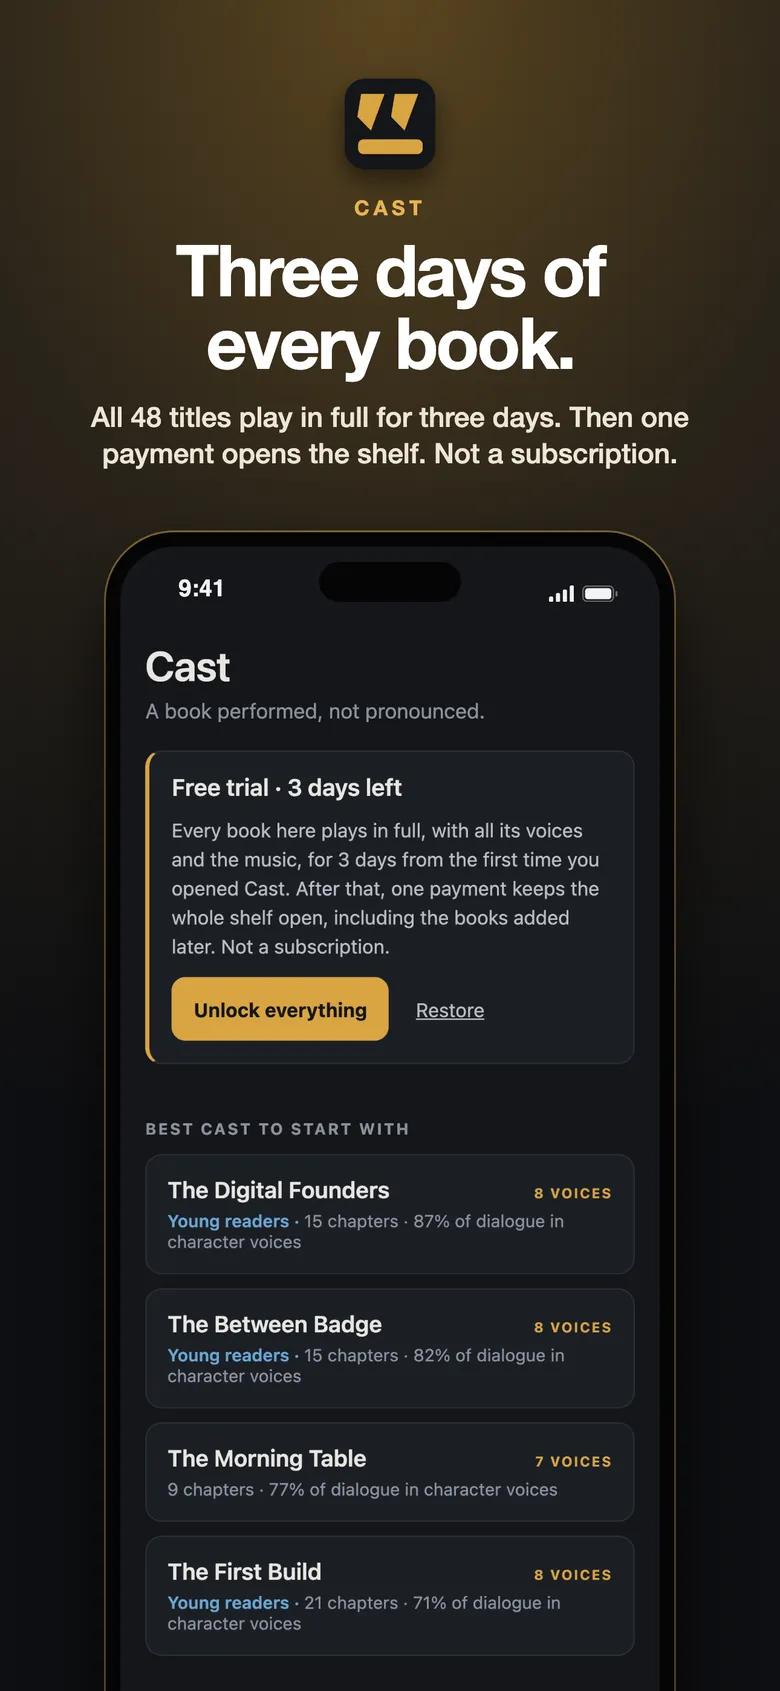
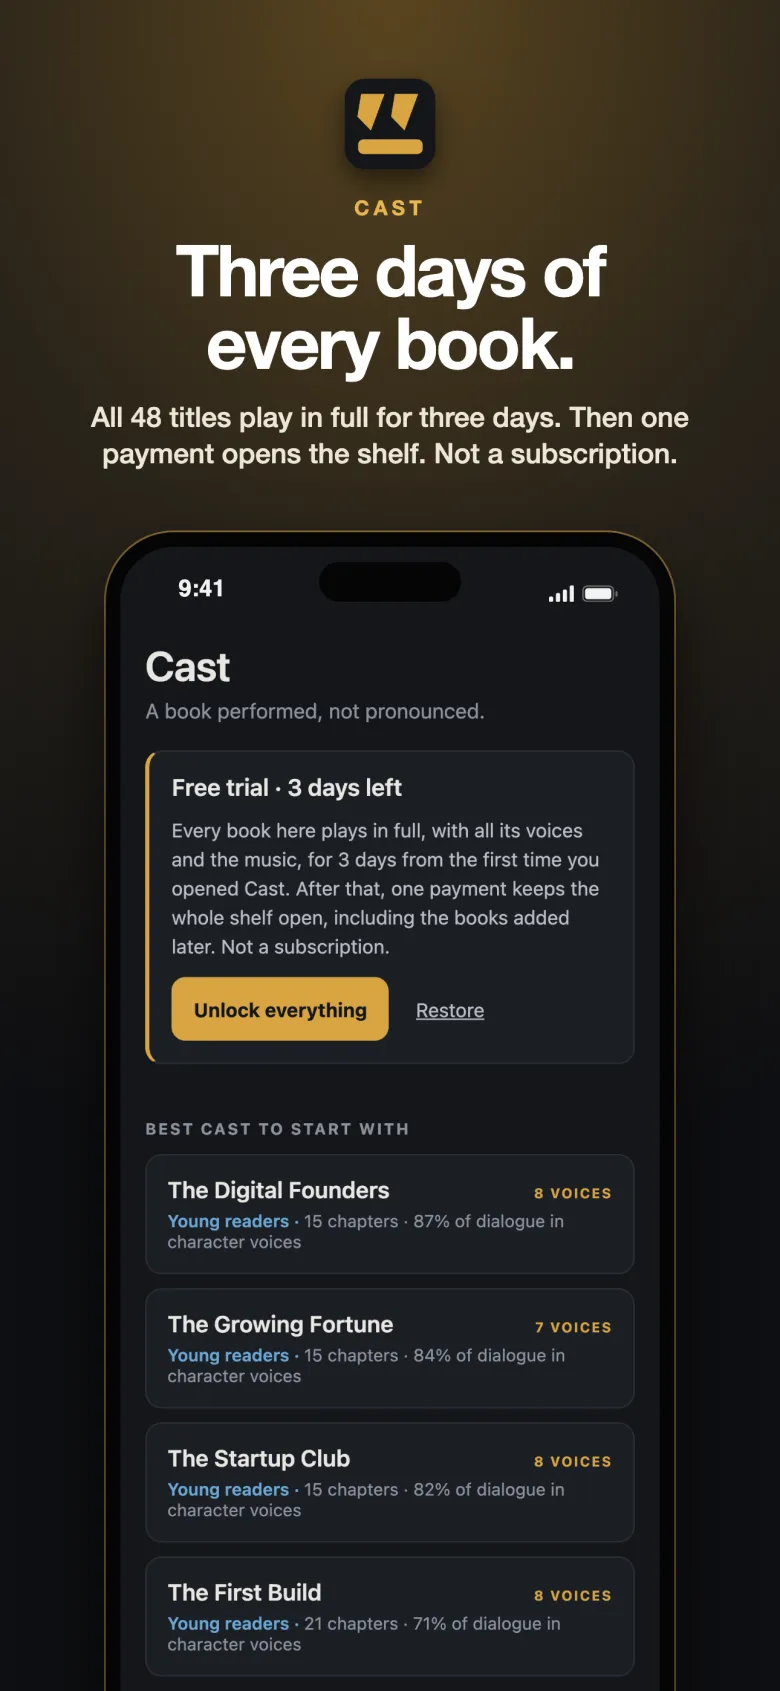
Cast round 5: store shot 2 retaken on the new start row (a series' first book or a standalone), audio page refreshed from the round 5 compile. CI steps and make_app_pages.py converge. Not pushed.
Claude-Session: 3686485a-7325-4383-b6d2-31ce4053344a

diff --git a/audio/index.html b/audio/index.html
@@ -173,7 +173,7 @@ table.au-tbl td.t{width:52%}
 <tr><td class="t">The Frost Cave Reset</td><td class="n">8</td><td class="n drop">1,102</td><td class="n drop">44%</td><td class="n drop">3</td><td class="m"><span class="au-mode cast">Full cast</span></td></tr>
 <tr><td class="t">Sky Islands Save File</td><td class="n">8</td><td class="n drop">635</td><td class="n drop">47%</td><td class="n drop">3</td><td class="m"><span class="au-mode cast">Full cast</span></td></tr>
 <tr><td class="t">The Mech Workshop Machine</td><td class="n">8</td><td class="n drop">748</td><td class="n drop">36%</td><td class="n drop">4</td><td class="m"><span class="au-mode cast">Full cast</span></td></tr>
-<tr><td class="t">Portal Park</td><td class="n">8</td><td class="n drop">824</td><td class="n drop">18%</td><td class="n drop">4</td><td class="m"><span class="au-mode narrator">Single voice</span></td></tr>
+<tr><td class="t">Portal Park</td><td class="n">8</td><td class="n drop">824</td><td class="n drop">19%</td><td class="n drop">4</td><td class="m"><span class="au-mode narrator">Single voice</span></td></tr>
 </tbody></table>
 <div class="au-series"><span class="count">6 books</span><h2>The Glitch Blocks</h2><p>Cubemelon books seven to twelve, and the best-attributed run in the catalogue at 80 percent of dialogue in character voices. Same eight voices, carried across from the first six, so a reader who started at book one keeps the same cast.</p></div>
 <table class="au-tbl"><thead><tr><th class="t">Title</th><th class="n">Voices</th><th class="n drop">Spoken lines</th><th class="n drop">Attributed</th><th class="n drop">Music cues</th><th class="m">Mode</th></tr></thead><tbody>
@@ -186,10 +186,10 @@ table.au-tbl td.t{width:52%}
 </tbody></table>
 <div class="au-series"><span class="count">8 books</span><h2>Standalone Novels</h2></div>
 <table class="au-tbl"><thead><tr><th class="t">Title</th><th class="n">Voices</th><th class="n drop">Spoken lines</th><th class="n drop">Attributed</th><th class="n drop">Music cues</th><th class="m">Mode</th></tr></thead><tbody>
-<tr><td class="t">Beneath the Surface</td><td class="n">8</td><td class="n drop">634</td><td class="n drop">57%</td><td class="n drop">1</td><td class="m"><span class="au-mode cast">Full cast</span></td></tr>
+<tr><td class="t">Beneath the Surface</td><td class="n">8</td><td class="n drop">634</td><td class="n drop">58%</td><td class="n drop">1</td><td class="m"><span class="au-mode cast">Full cast</span></td></tr>
 <tr><td class="t">The Last Adviser</td><td class="n">8</td><td class="n drop">2,758</td><td class="n drop">49%</td><td class="n drop">5</td><td class="m"><span class="au-mode cast">Full cast</span></td></tr>
 <tr><td class="t">Concrete Mirrors</td><td class="n">4</td><td class="n drop">348</td><td class="n drop">53%</td><td class="n drop">2</td><td class="m"><span class="au-mode cast">Full cast</span></td></tr>
-<tr><td class="t">Stealing First Base</td><td class="n">8</td><td class="n drop">569</td><td class="n drop">35%</td><td class="n drop">5</td><td class="m"><span class="au-mode cast">Full cast</span></td></tr>
+<tr><td class="t">Stealing First Base</td><td class="n">8</td><td class="n drop">569</td><td class="n drop">36%</td><td class="n drop">5</td><td class="m"><span class="au-mode cast">Full cast</span></td></tr>
 <tr><td class="t">The Sterling Conspiracy</td><td class="n">8</td><td class="n drop">1,166</td><td class="n drop">89%</td><td class="n drop">3</td><td class="m"><span class="au-mode cast">Full cast</span></td></tr>
 <tr><td class="t">The Starlight Secret Society</td><td class="n">8</td><td class="n drop">3,734</td><td class="n drop">45%</td><td class="n drop">10</td><td class="m"><span class="au-mode cast">Full cast</span></td></tr>
 <tr><td class="t">The Fortune Weaver</td><td class="n">0</td><td class="n drop">0</td><td class="n drop">0%</td><td class="n drop">2</td><td class="m"><span class="au-mode narrator">Single voice</span></td></tr>
@@ -197,7 +197,7 @@ table.au-tbl td.t{width:52%}
 </tbody></table>
 <div class="au-series"><span class="count">12 books</span><h2>Money Skills and Making Things</h2></div>
 <table class="au-tbl"><thead><tr><th class="t">Title</th><th class="n">Voices</th><th class="n drop">Spoken lines</th><th class="n drop">Attributed</th><th class="n drop">Music cues</th><th class="m">Mode</th></tr></thead><tbody>
-<tr><td class="t">The Billionaire&#x27;s Legacy Game</td><td class="n">8</td><td class="n drop">1,550</td><td class="n drop">41%</td><td class="n drop">4</td><td class="m"><span class="au-mode cast">Full cast</span></td></tr>
+<tr><td class="t">The Billionaire&#x27;s Legacy Game</td><td class="n">8</td><td class="n drop">1,550</td><td class="n drop">40%</td><td class="n drop">4</td><td class="m"><span class="au-mode cast">Full cast</span></td></tr>
 <tr><td class="t">The Digital Founders</td><td class="n">8</td><td class="n drop">1,974</td><td class="n drop">87%</td><td class="n drop">4</td><td class="m"><span class="au-mode cast">Full cast</span></td></tr>
 <tr><td class="t">The Startup Club</td><td class="n">8</td><td class="n drop">1,540</td><td class="n drop">82%</td><td class="n drop">3</td><td class="m"><span class="au-mode cast">Full cast</span></td></tr>
 <tr><td class="t">The Growing Fortune</td><td class="n">7</td><td class="n drop">1,169</td><td class="n drop">84%</td><td class="n drop">4</td><td class="m"><span class="au-mode cast">Full cast</span></td></tr>
